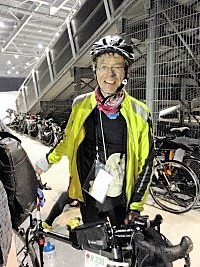
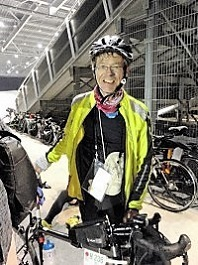
styles clean up

diff --git a/snippets/tour-snippet-en.html b/snippets/tour-snippet-en.html
@@ -26,7 +26,7 @@
         <div id="home" class="tab-pane fade in active">
           <h2>Paris Brest Paris</h2>
           <p> 
-          A tremendous experience! Not just from a sporting perspective. To join more than 5000 cyclists from around the world and participate in this 1200km cacyling marathon has been mind blowing. It took me 82 hours, including two naps of 3 and 2 hours to ride to Brest and back to Paris. In the end it was ruther difficult because I could not keep my head up and straight - a typical long distance phenomenon (Shermer neck syndrome). It has also been a great emotional experience with all the supporters along the 1200km along the roadside offering you free food and "bon courage" cheers - during day and in the middle of the night. It has been a great honour to be part of this event.</p>
+          A tremendous experience! Not just from a sporting perspective. To join more than 5000 cyclists from around the world and participate in this 1200km cacyling marathon has been mind blowing. It took me 82 hours, including two naps of 3 and 2 hours to ride to Brest and back to Paris. In the end it was ruther difficult to keep my head up and straight - a typical long distance phenomenon (Shermer's neck syndrome). It also has been a great emotional experience with all the supporters along the roadside offering you free food and "bon courage" cheers - everywhere and during day and in the middle of the night. It has been a great honour to be part of this event.</p>
           <br>
           <a href="#" onclick="$dc.loadGallery();">Foto Gallery</a>
           <br>

diff --git a/snippets/tour-snippet.html b/snippets/tour-snippet.html
@@ -52,6 +52,7 @@
           <p>Garmisch Partenkirchen liegt im äußersten Süden Deutschlands, am Fuße der Zugspitze. Die Region bietet beeindruckende Sichten auf die umliegenden Berge, allerdings kaum Gelegenheiten zum Erklimmen der Höhen mit dem Rad oder zum Rennrad fahren generell. Die Fahrt nach Mittenwald mit einem Abstecher auf der Privatstraße nach Elmau und die Strecke über Oberau und Linderhof zum Plansee bilden eine Ausnahme. Ansonsten muß man sich auf den Hauptstraßen durch die Täler drängeln, oft entlang länegerer Verkahrsstaus.</p>
           <a href="http://www.outdooractive.com/de/rennrad/zugspitz-region/garmisch-linderhof-plansee-runde/108340300/" target="_blank">Garmisch-Runde auf OutdoorActive</a> 
           <br> <br>
+
           <p>Lindau am Bodensee ist ein Ort wie gemacht zum Rennradfahren. Das Angebot reicht von der 200km+ langen Seeumrundung (teilweise auf dem recht strak frequentierten Bodenseeradweg) über Abstecher in den Bregenzer Wald (Dornbirn mit Bödele und Feldkirch mit Furkapass), Allgäu (hier die großen Bundesstraßen meiden) bis zum Bergzeitfahren am Hausberg, dem Pfänder.</p>
           <a href="https://www.strava.com/activities/709685698" target="_blank">Dornbirn-Bödele-Scheidegg-Tour auf Strava</a> 
           <br>

diff --git a/snippets/gallery-snippet.html b/snippets/gallery-snippet.html
@@ -200,7 +200,7 @@
                   </li>
                   <li class="col-xs-12 col-sm-4">
                     <a href="#" class="thumbnail" data-toggle="modal" data-target="#lightbox">
-                      <img src="images/pbp-03-xs.jpg" alt="PBP">
+                      <img src="images/pbp-04-xs.jpg" alt="PBP">
                     </a>
                     <div class="caption">
                       <p>Im Ziel in Versailles - Donnerstags morgens gegen 4:00 Uhr</p>

diff --git a/css/styles.css b/css/styles.css
@@ -231,10 +231,9 @@
     }
   }
 
-  }
 
   @media (max-width: 480px) {
-    .carousel-caption {
+    .carousel-caption  {
       display: none; /* Hide the carousel text when the screen is less than 600 pixels wide */
     }
     .panel-title, h4 {
